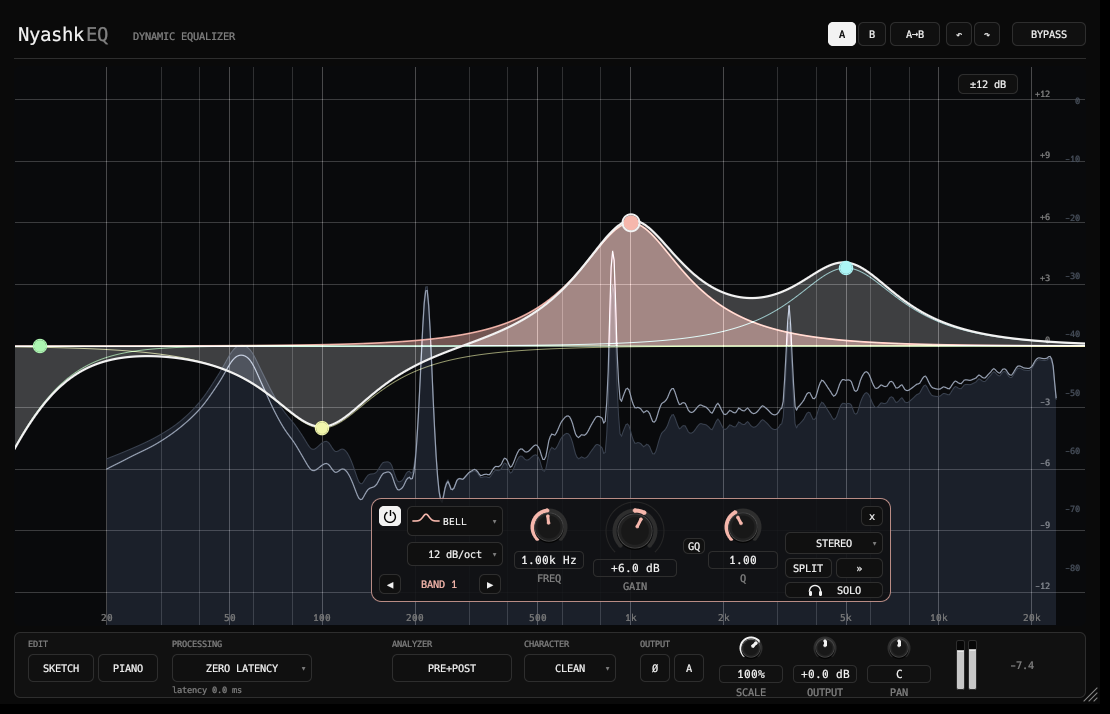
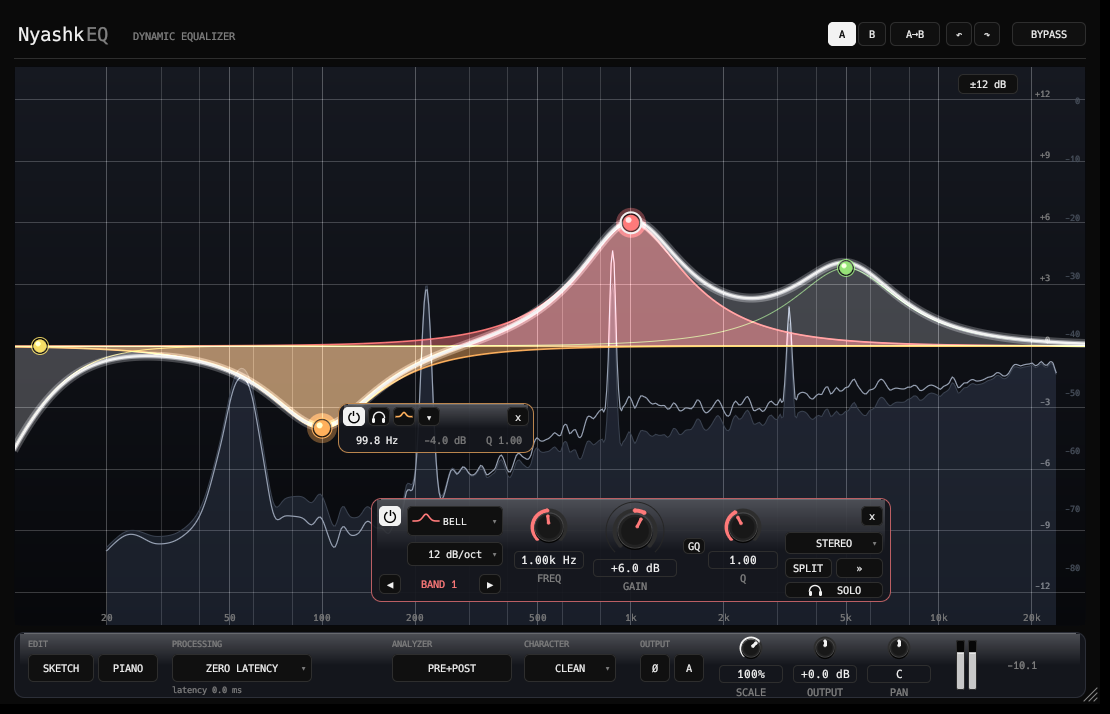
2.1.0: new look (gradient display, curve glow, glass panels, dots), value entry fix, wheel over the parameter box
Claude-Session: https://claude.ai/code/session_013jKKu6QEcWQprfHFTeKF77

diff --git a/plugins/nyashkeq/src/editor.rs b/plugins/nyashkeq/src/editor.rs
@@ -35,9 +35,50 @@ fn fit_f(j: usize) -> f32 {
     20.0 * 2f32.powf(j as f32 / 12.0)
 }
 
+/// band colours (our own palette, 12 hues, then repeated a little lighter)
 fn band_col(i: usize) -> Color32 {
-    let h = (0.02 + i as f32 * 0.161) % 1.0;
-    Color32::from(egui::ecolor::Hsva::new(h, 0.55, 0.92, 1.0))
+    const P: [(u8, u8, u8); 12] = [
+        (255, 122, 122),
+        (255, 176, 92),
+        (246, 222, 102),
+        (150, 226, 120),
+        (92, 214, 170),
+        (88, 200, 236),
+        (110, 150, 255),
+        (168, 128, 255),
+        (226, 116, 236),
+        (255, 116, 180),
+        (200, 200, 210),
+        (140, 236, 220),
+    ];
+    let (r, g, b) = P[i % 12];
+    if i < 12 {
+        Color32::from_rgb(r, g, b)
+    } else {
+        Color32::from_rgb(r / 2 + 110, g / 2 + 110, b / 2 + 110)
+    }
+}
+
+/// vertical gradient rectangle
+fn grad(painter: &egui::Painter, r: Rect, top: Color32, bottom: Color32) {
+    let mut m = egui::Mesh::default();
+    m.colored_vertex(r.left_top(), top);
+    m.colored_vertex(r.right_top(), top);
+    m.colored_vertex(r.right_bottom(), bottom);
+    m.colored_vertex(r.left_bottom(), bottom);
+    m.add_triangle(0, 1, 2);
+    m.add_triangle(0, 2, 3);
+    painter.add(egui::Shape::mesh(m));
+}
+
+/// glassy panel: soft gradient, thin border, a light line along the top
+fn glass(painter: &egui::Painter, r: Rect, accent: Option<Color32>) {
+    let rr = CornerRadius::same(10);
+    painter.rect_filled(r, rr, Color32::from_rgba_unmultiplied(20, 22, 28, 238));
+    grad(painter, r.shrink2(Vec2::new(6.0, 2.0)).with_max_y(r.top() + r.height() * 0.5), Color32::from_white_alpha(10), Color32::from_white_alpha(0));
+    painter.hline(r.left() + 10.0..=r.right() - 10.0, r.top() + 1.0, Stroke::new(1.0_f32, Color32::from_white_alpha(24)));
+    let bc = accent.map(|c| Color32::from_rgba_unmultiplied(c.r(), c.g(), c.b(), 110)).unwrap_or(Color32::from_rgb(44, 47, 56));
+    painter.rect_stroke(r, rr, Stroke::new(1.0_f32, bc), StrokeKind::Inside);
 }
 
 const NOTES: [&str; 12] = ["C", "C#", "D", "D#", "E", "F", "F#", "G", "G#", "A", "A#", "B"];
@@ -797,8 +838,9 @@ pub fn create(params: Arc<EqParams>, shared: Arc<Shared>) -> Option<Box<dyn Edit
                 let rng = [3.0f32, 6.0, 12.0, 30.0].into_iter().find(|&r| r >= set_rng && r >= peak * 0.92).unwrap_or(30.0);
                 let d = Disp { g: gr, range: rng, an_range: p.an_range.value().db() };
                 let painter = ui.painter().clone();
-                painter.rect_filled(gr, CornerRadius::same(6), Color32::from_rgb(9, 10, 12));
+                painter.rect_filled(gr, CornerRadius::same(8), Color32::from_rgb(8, 9, 12));
                 let clip = painter.with_clip_rect(gr.shrink(1.0));
+                grad(&clip, gr, Color32::from_rgb(22, 25, 33), Color32::from_rgb(7, 8, 11));
                 let piano = p.piano.value();
                 for f in [20.0f32, 30.0, 40.0, 50.0, 60.0, 80.0, 100.0, 200.0, 300.0, 400.0, 500.0, 600.0, 800.0, 1000.0, 2000.0, 3000.0, 4000.0, 5000.0, 6000.0, 8000.0, 10000.0, 20000.0] {
                     let major = matches!(f as i32, 20 | 50 | 100 | 200 | 500 | 1000 | 2000 | 5000 | 10000 | 20000);
@@ -926,6 +968,10 @@ pub fn create(params: Arc<EqParams>, shared: Arc<Shared>) -> Option<Box<dyn Edit
                 let main = line_of(&tot_a);
                 if !split {
                     fill_under(&clip, &main, zero, Color32::from_white_alpha(9));
+                }
+                if !byp && !soloing {
+                    clip.add(egui::Shape::line(main.clone(), PathStroke::new(9.0_f32, Color32::from_white_alpha(10))));
+                    clip.add(egui::Shape::line(main.clone(), PathStroke::new(4.5_f32, Color32::from_white_alpha(28))));
                 }
                 clip.add(egui::Shape::line(main.clone(), PathStroke::new(2.2_f32, curve_col)));
 
@@ -1119,7 +1165,7 @@ pub fn create(params: Arc<EqParams>, shared: Arc<Shared>) -> Option<Box<dyn Edit
                 }
                 // wheel: over a dot (or anywhere over the display for the selected bands)
                 let wheel = ui.input(|i| i.smooth_scroll_delta.y);
-                if wheel != 0.0 && pointer.is_some_and(|pp| gr.contains(pp) && !in_overlay(pp)) {
+                if wheel != 0.0 && pointer.is_some_and(|pp| gr.contains(pp) && !in_overlay(pp) && !st.pbox.is_some_and(|(k, _)| pbox_rect(k).contains(pp))) {
                     let targets: Vec<usize> = if let Some(h) = st.hover { vec![h] } else { (0..NB).filter(|&k| st.sel[k] && views[k].used).collect() };
                     let fine = if mods.shift { 0.2 } else { 1.0 };
                     for k in targets {
@@ -1359,14 +1405,19 @@ pub fn create(params: Arc<EqParams>, shared: Arc<Shared>) -> Option<Box<dyn Edit
                     let dim = soloing && solo_now as usize != i;
                     let hot = st.hover == Some(i);
                     let selected = st.sel[i];
-                    let rad = if hot || selected { 7.5 } else { 6.0 };
+                    let rad = if hot || selected { 8.0 } else { 6.5 };
                     if bv.dynamic && bv.on && !bv.spectral {
                         let ny = d.dy((bv.spec.gain_db as f32 + bv.dyn_now).clamp(-rng, rng));
                         painter.line_segment([pos, Pos2::new(pos.x, ny)], Stroke::new(3.0_f32, C_DYN));
                     }
                     let fill = if !bv.on || dim { Color32::from_rgb(24, 24, 26) } else { col };
+                    if (hot || selected) && bv.on {
+                        painter.circle_filled(pos, rad + 7.0, Color32::from_rgba_unmultiplied(col.r(), col.g(), col.b(), 26));
+                    }
+                    painter.circle_filled(pos, rad + 1.5, Color32::from_black_alpha(160));
                     painter.circle_filled(pos, rad, fill);
-                    painter.circle_stroke(pos, rad, Stroke::new(if selected { 2.0_f32 } else { 1.2 }, if selected { WHITE } else { col }));
+                    painter.circle_filled(pos - Vec2::new(rad * 0.3, rad * 0.35), rad * 0.35, Color32::from_white_alpha(if bv.on { 70 } else { 15 }));
+                    painter.circle_stroke(pos, rad + 1.5, Stroke::new(if selected { 2.0_f32 } else { 1.0 }, if selected { WHITE } else { Color32::from_rgba_unmultiplied(col.r(), col.g(), col.b(), 200) }));
                     if bv.dynamic {
                         painter.circle_stroke(pos, rad + 3.0, Stroke::new(1.0_f32, C_DYN));
                     }
@@ -1427,6 +1478,7 @@ pub fn create(params: Arc<EqParams>, shared: Arc<Shared>) -> Option<Box<dyn Edit
                 }
 
                 // ---------------- value entry (double-click a dot)
+                let just_opened = open_edit.is_some() || st.edit.as_ref().is_some_and(|e| e.first);
                 if let Some(i) = open_edit {
                     let b = &p.bands[i];
                     st.edit = Some(Edit { band: i, text: [fmt_hz(b.freq.value()), format!("{:.1}", b.gain.value()), format!("{:.2}", b.q.value())], first: true });
@@ -1439,14 +1491,13 @@ pub fn create(params: Arc<EqParams>, shared: Arc<Shared>) -> Option<Box<dyn Edit
                         let br = pbox_rect(i);
                         let er = Rect::from_min_size(br.min, Vec2::new(196.0, 56.0));
                         let _ = ui.interact(er, egui::Id::new("edit_bg"), Sense::click());
-                        painter.rect_filled(er, CornerRadius::same(6), Color32::from_rgb(20, 21, 25));
-                        painter.rect_stroke(er, CornerRadius::same(6), Stroke::new(1.0_f32, band_col(i)), StrokeKind::Inside);
+                        glass(&painter, er, Some(band_col(i)));
                         let labels = ["FREQ", "GAIN", "Q"];
                         let mut commit = false;
                         for k in 0..3 {
                             let x = er.left() + 6.0 + k as f32 * 63.0;
                             painter.text(Pos2::new(x + 29.0, er.top() + 10.0), Align2::CENTER_CENTER, labels[k], mono(8.5), DIM);
-                            let te = egui::TextEdit::singleline(&mut ed.text[k]).font(mono(11.0)).desired_width(56.0).horizontal_align(egui::Align::Center);
+                            let te = egui::TextEdit::singleline(&mut ed.text[k]).id(egui::Id::new(("eq_edit", k))).font(mono(11.0)).desired_width(56.0).horizontal_align(egui::Align::Center);
                             let r = ui.put(Rect::from_min_size(Pos2::new(x, er.top() + 20.0), Vec2::new(58.0, 26.0)), te);
                             if ed.first && k == 0 {
                                 r.request_focus();
@@ -1468,7 +1519,7 @@ pub fn create(params: Arc<EqParams>, shared: Arc<Shared>) -> Option<Box<dyn Edit
                                 set_f(setter, &b.q, q.clamp(0.025, 40.0));
                             }
                             st.edit = None;
-                        } else if ui.input(|i| i.key_pressed(Key::Escape)) || (ui.input(|i| i.pointer.any_pressed()) && pointer.is_some_and(|pp| !er.contains(pp))) {
+                        } else if ui.input(|i| i.key_pressed(Key::Escape)) || (!just_opened && ui.input(|i| i.pointer.any_pressed()) && pointer.is_some_and(|pp| !er.contains(pp))) {
                             st.edit = None;
                         }
                     }
@@ -1612,8 +1663,7 @@ fn param_display(ui: &mut Ui, setter: &ParamSetter, p: &EqParams, sh: &Shared, s
     let bv = views[i];
     let col = band_col(i);
     let _ = ui.interact(br, egui::Id::new("pbox_bg"), Sense::click_and_drag());
-    painter.rect_filled(br, CornerRadius::same(6), Color32::from_rgba_unmultiplied(18, 19, 23, 242));
-    painter.rect_stroke(br, CornerRadius::same(6), Stroke::new(1.0_f32, Color32::from_rgba_unmultiplied(col.r(), col.g(), col.b(), 150)), StrokeKind::Inside);
+    glass(painter, br, Some(col));
     let bt = |k: f32| Rect::from_min_size(Pos2::new(br.left() + 5.0 + k * 25.0, br.top() + 4.0), Vec2::new(22.0, 19.0));
     // bypass
     let on = b.on.value();
@@ -1759,8 +1809,7 @@ fn band_panel(ui: &mut Ui, setter: &ParamSetter, p: &EqParams, sh: &Shared, st: 
     let col = band_col(i);
     let has_gain = bv.spec.shape.has_gain();
     let _ = ui.interact(pr, egui::Id::new("band_panel_bg"), Sense::click_and_drag());
-    painter.rect_filled(pr, CornerRadius::same(10), Color32::from_rgba_unmultiplied(15, 16, 19, 228));
-    painter.rect_stroke(pr, CornerRadius::same(10), Stroke::new(1.0_f32, Color32::from_rgba_unmultiplied(col.r(), col.g(), col.b(), 120)), StrokeKind::Inside);
+    glass(painter, pr, Some(col));
     let at = |x: f32, y: f32, w: f32, h: f32| Rect::from_min_size(Pos2::new(pr.left() + x, pr.top() + y), Vec2::new(w, h));
     // top left: bypass, top right: delete
     let on = b.on.value();
@@ -1918,8 +1967,7 @@ fn band_panel(ui: &mut Ui, setter: &ParamSetter, p: &EqParams, sh: &Shared, st: 
 /// analyzer settings (opens on hover over the button, stays when clicked)
 fn analyzer_panel(ui: &mut Ui, setter: &ParamSetter, p: &EqParams, st: &mut Gui, ar: Rect, painter: &egui::Painter, _fs: f32) {
     let _ = ui.interact(ar, egui::Id::new("ana_pop_bg"), Sense::click_and_drag());
-    painter.rect_filled(ar, CornerRadius::same(8), Color32::from_rgba_unmultiplied(16, 17, 20, 248));
-    painter.rect_stroke(ar, CornerRadius::same(8), Stroke::new(1.0_f32, LINE), StrokeKind::Inside);
+    glass(painter, ar, None);
     let at = |x: f32, y: f32, w: f32, h: f32| Rect::from_min_size(Pos2::new(ar.left() + x, ar.top() + y), Vec2::new(w, h));
     let lab = |x: f32, y: f32, t: &str| painter.text(Pos2::new(ar.left() + x, ar.top() + y), Align2::LEFT_CENTER, t, mono(9.0), DIM);
     lab(12.0, 12.0, "SHOW");
@@ -2011,7 +2059,7 @@ fn analyzer_panel(ui: &mut Ui, setter: &ParamSetter, p: &EqParams, st: &mut Gui,
 fn bottom_bar(ui: &mut Ui, setter: &ParamSetter, p: &EqParams, sh: &Shared, st: &mut Gui, o: Pos2, painter: &egui::Painter, fs: f32, ana_btn: Rect) {
     let rect = |x: f32, y: f32, w: f32, h: f32| Rect::from_min_size(Pos2::new(o.x + x, o.y + y), Vec2::new(w, h));
     let by = BAR_Y;
-    panel(ui, rect(14.0, by, BASE_W - 28.0, 66.0));
+    glass(painter, rect(14.0, by, BASE_W - 28.0, 66.0), None);
     let blab = |x: f32, t: &str| painter.text(Pos2::new(o.x + x, o.y + by + 12.0), Align2::LEFT_CENTER, t, mono(8.5), DIM);
     let piano = p.piano.value();
     blab(28.0, "EDIT");

diff --git a/RELEASE_NOTES.md b/RELEASE_NOTES.md
@@ -11,6 +11,7 @@
 - Компактна панель смуги під вибраною точкою: форма, крутизна, FREQ / GAIN (з кільцем динаміки, кнопками вимкнення динаміки та спектрального режиму) / Q, GQ, канали, SPLIT (L/R або M/S), соло, панель динаміки ».
 - Копіювати / вставити смуги (правою кнопкою), навіть між різними копіями плагіна.
 - Діапазон дисплея сам розширюється, коли крива виходить за край. Аналізатор відкривається наведенням.
+- Новий вигляд: градієнтний дисплей, сяйво кривої, скляні панелі, більші точки, власна палітра кольорів смуг.
 
 ## NyashkEQ 2.0.1
 
